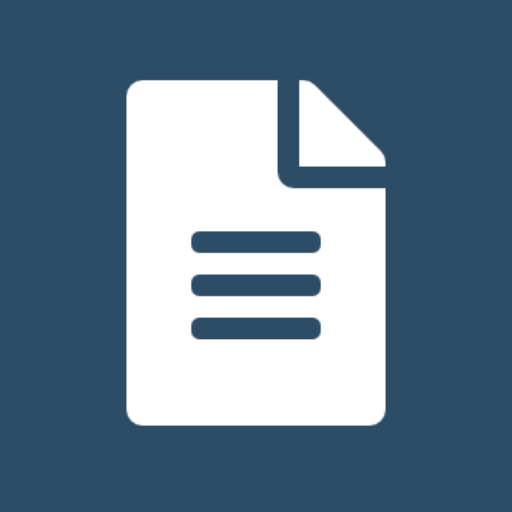
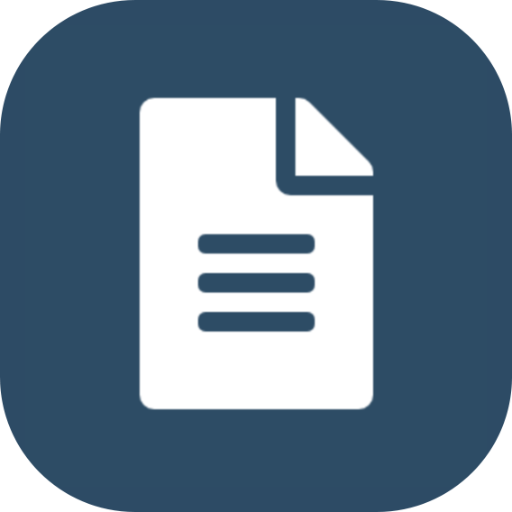
Make pwa

diff --git a/src/components/pages/homepage/index.tsx b/src/components/pages/homepage/index.tsx
@@ -1,5 +1,5 @@
 import React from "react";
-import { Container, Segment, Grid, Icon, Header } from "semantic-ui-react";
+import { Segment, Grid, Icon, Header, Transition } from "semantic-ui-react";
 import { useDropzone } from "react-dropzone";
 import "./index.scss";
 import styled from "styled-components";
@@ -52,49 +52,51 @@ function Homepage() {
   const [loading, invalid, logs] = useLogsFromUpload(acceptedFiles?.[0]);
 
   return (
-    <main>
+    <>
       {acceptedFiles.length > 0 ? (
         <MainViewer loading={loading} invalid={invalid} logs={logs} />
       ) : (
-        <div className="homepage-container">
-          <Container>
-            <Segment padded raised secondary>
-              <Grid
-                columns="2"
-                relaxed
-                stackable
-                verticalAlign="middle"
-                textAlign="center"
-              >
-                <Grid.Column>
-                  <DragNDropContainer
-                    {...getRootProps({
-                      isDragAccept,
-                      isDragActive,
-                      isDragReject,
-                    })}
-                  >
-                    <input {...getInputProps()} />
-                    <Header icon>
-                      <Icon name="file archive outline" />
-                      Drag and Drop, or Click to upload the zip file.
-                    </Header>
-                  </DragNDropContainer>
-                </Grid.Column>
-                <Grid.Column>
-                  <Icon
-                    className="homepage-icon"
-                    name="file alternate"
-                    size="massive"
-                  />
-                  <Header as="h1">Log Parser Tool</Header>
-                </Grid.Column>
-              </Grid>
-            </Segment>
-          </Container>
-        </div>
+        <Grid
+          className="homepage-container"
+          container
+          columns="1"
+          verticalAlign="middle"
+          textAlign="center"
+        >
+          <Grid.Column>
+            <Transition animation="scale" transitionOnMount>
+              <Segment padded raised secondary>
+                <Grid columns="2" relaxed stackable verticalAlign="middle">
+                  <Grid.Column>
+                    <DragNDropContainer
+                      {...getRootProps({
+                        isDragAccept,
+                        isDragActive,
+                        isDragReject,
+                      })}
+                    >
+                      <input {...getInputProps()} />
+                      <Header icon>
+                        <Icon name="file archive outline" />
+                        Drag and Drop, or Click to upload the zip file.
+                      </Header>
+                    </DragNDropContainer>
+                  </Grid.Column>
+                  <Grid.Column>
+                    <Icon
+                      className="homepage-icon"
+                      name="file alternate"
+                      size="massive"
+                    />
+                    <Header as="h1">Log Parser Tool</Header>
+                  </Grid.Column>
+                </Grid>
+              </Segment>
+            </Transition>
+          </Grid.Column>
+        </Grid>
       )}
-    </main>
+    </>
   );
 }
 

diff --git a/public/index.html b/public/index.html
@@ -26,7 +26,7 @@
       sizes="16x16"
       href="%PUBLIC_URL%favicon-16x16.png"
     />
-    <link rel="manifest" href="%PUBLIC_URL%/site.webmanifest" />
+    <link rel="manifest" href="%PUBLIC_URL%/manifest.json" />
     <!--
       Notice the use of %PUBLIC_URL% in the tags above.
       It will be replaced with the URL of the `public` folder during the build.

diff --git a/src/components/pages/log-info-page/index.tsx b/src/components/pages/log-info-page/index.tsx
@@ -5,11 +5,7 @@ import MainViewer from "../../main-viewer";
 function LogInfoPage() {
   const [loading, invalid, logs] = useLogsFromUrl();
 
-  return (
-    <main>
-      <MainViewer loading={loading} invalid={invalid} logs={logs} />
-    </main>
-  );
+  return <MainViewer loading={loading} invalid={invalid} logs={logs} />;
 }
 
 export default LogInfoPage;

diff --git a/src/index.tsx b/src/index.tsx
@@ -21,4 +21,4 @@ ReactDOM.render(
 // If you want your app to work offline and load faster, you can change
 // unregister() to register() below. Note this comes with some pitfalls.
 // Learn more about service workers: https://bit.ly/CRA-PWA
-serviceWorker.unregister();
+serviceWorker.register();

diff --git a/src/components/pages/homepage/index.scss b/src/components/pages/homepage/index.scss
@@ -1,8 +1,5 @@
 .homepage-container {
-  height: 100vh;
-  display: flex;
-  align-items: center;
-  justify-content: center;
+  height: 100%;
 }
 
 .homepage-icon {
